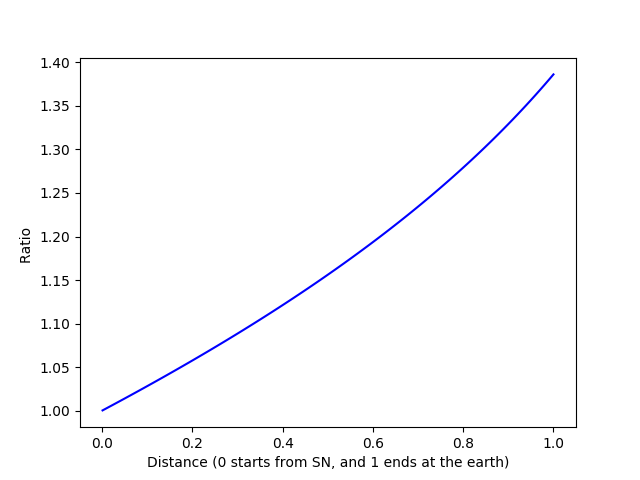
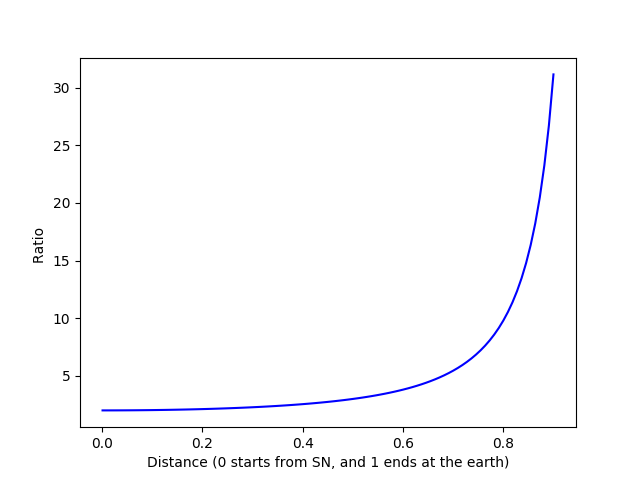
Angle

diff --git a/demo/Angle_Effect.py b/demo/Angle_Effect.py
@@ -23,38 +23,49 @@ rs=24.42*3.08567758e21
 cs = 1e-28
 
 def angle_ratio(beta,r,R):
-    
-    def thet(psi):
-        return psi-mt.asin(r*mt.sin(psi)/R)
-    def f(theta):
-        rp = (R**2+r**2-2*R*r*mt.cos(theta))
-        def psi(theta):
-            return mt.atan(1/(1/(mt.tan(theta))-r/(R*mt.sin(theta))))
+    def f(psi):
+        rp = (R**2+r**2-2*R*r*mt.cos(psi))**0.5
+        cos_theta_psi = (rp**2+R**2-r**2)/(2*R*rp)
+        
         def g(psi):
-            x = mt.tan(psi)/((1-beta**2)**0.5)
-            return 4*x/((1+x**2)**2) /(mt.sin(psi)*mt.cos(psi)*mt.cos(psi)) /((1-beta**2)**0.5)
+            def theta(psi):
+                return mt.atan(1/(1/(mt.tan(psi))-r/(R*mt.sin(psi))))
+            
+            theta = theta(psi)
+            sec = 1/mt.cos(theta)
+            #return 1
+            return 4*mt.tan(theta)*(sec**2)*(1-beta*beta)/((sec**2-beta**2)**2)/mt.sin(theta)
+            # 
+            #return 4*x/((1+x**2)**2) /(mt.sin(theta)*mt.cos(theta)*mt.cos(theta)) /((1-beta**2)**0.5)
+            # #x = mt.tan(theta)/((1-beta**2)**0.5)
 
-        return mt.sin(theta)*g(psi(theta))*mt.cos(psi(theta)-theta)/(rp)
+        return mt.sin(psi)*g(psi)*cos_theta_psi/(rp**2)/2.
     
-    psi_max = mt.atan((1-beta**2)**0.5)
-    theta_max =thet(psi_max)
-
-    return integrate.nquad(f, [[0,theta_max]])[0]
+    theta_max = np.pi/2
+    def psi(theta):
+        return theta - mt.asin(r/R*mt.sin(theta))
+    psi_max = psi(theta_max)
+    #print(psi_max/np.pi)
+    #return integrate.nquad(f, [[0,np.pi]])[0]
+    return integrate.nquad(f, [[0,psi_max]])[0] 
 def norm(beta):
     
     
-    def g(psi):
-        x = mt.tan(psi)/((1-beta**2)**0.5)
-        return 4*x/((1+x**2)**2) /(mt.sin(psi)*mt.cos(psi)*mt.cos(psi)) /((1-beta**2)**0.5)
-    psi_max = mt.atan((1-beta**2)**0.5)
-    def f(psi):
-        return mt.sin(psi)*g(psi)
-    return integrate.nquad(f, [[0,psi_max]])[0]
+    def g(theta):
+        x = mt.tan(theta)/((1-beta**2)**0.5)
+        return 4*x/((1+x**2)**2) /(mt.sin(theta)*mt.cos(theta)*mt.cos(theta)) /((1-beta**2)**0.5)
+    theta_max = mt.atan((1-beta**2)**0.5)
+    def f(theta):
+        return mt.sin(theta)*g(theta)
+    return integrate.nquad(f, [[theta_max,np.pi]])[0]
 if __name__== '__main__':
     gamma = kim.energy_kicked_by_neutrino(E_per_nu, M_nu,M_DM)/M_DM
     beta = (1-gamma**(-2))**0.5
+    angle_ratio(beta,0.5,1)
+    
     print("Angle Ratio:"+str(angle_ratio(beta,0.5,1)))
     print("Norm:"+str(norm(beta)))
+    
 
     r = np.linspace(0.001,0.9,100)
     ratio = []

diff --git a/demo/Kinematics.py b/demo/Kinematics.py
@@ -1,0 +1,32 @@
+## This module is to compute the energy and momentum kicked of DM particle, kicked by a neutrino of energy E
+import numpy as np
+import matplotlib.pyplot as plt
+
+M_nu = 0.32 # Unit:eV/c2
+def p_kicked_by_neutrino(E,m_nu,m_DM,n0):
+    E = np.array(E)
+    beta = (((E**2)-(m_nu**2))**0.5)/(E+m_DM)
+    b = beta/(1-beta**2)
+    return m_DM*np.tensordot(b,n0,axes=0) 
+
+def energy_kicked_by_neutrino(E,m_nu,m_DM):
+    E = np.array(E)
+    beta = (((E**2)-(m_nu**2))**0.5)/(E+m_DM)
+    
+    return m_DM/(1-beta**2)
+
+if __name__== '__main__':
+    M_DM = 1e07
+    E_max = 10e06
+    
+    E = np.linspace(M_nu,E_max,1000)
+    n0 = np.array([1,0,0])
+
+    p = p_kicked_by_neutrino(E,M_nu,M_DM,n0)[:,0]
+    eng = energy_kicked_by_neutrino(E,M_nu,M_DM)
+
+    plt.plot(E,p, color ='blue', linewidth =1, linestyle ='-', label = 'momentum mag')
+    plt.plot(E,eng, color ='red', linewidth =1, linestyle ='-', label = 'energy')
+    plt.legend(loc='upper left')
+    plt.show()
+    
